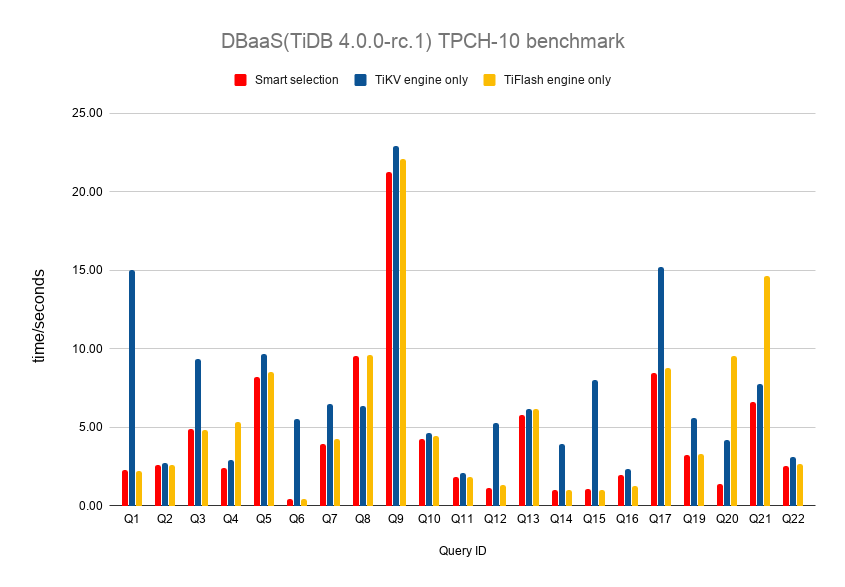
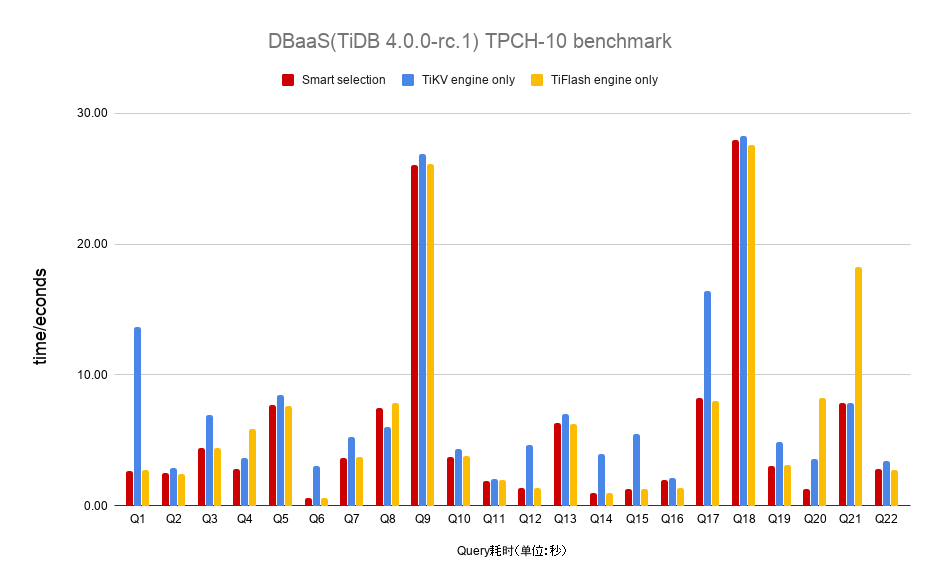
Update query cost

diff --git a/benchmark/v4.0-performance-benchmarking-with-tpch-on-dbaas.md b/benchmark/v4.0-performance-benchmarking-with-tpch-on-dbaas.md
@@ -108,28 +108,28 @@ select @@tidb_isolation_read_engines, @@tidb_allow_batch_cop, @@tidb_opt_distinc
 
 | Query ID |  智能选择  |  TiKV 隔离读  |  TiFlash 隔离读  | 
 |--------:|-----------:|------------:|--------------:|
-| 1       |      2.25s |      15.02s |         2.24s |
-| 2       |      2.57s |       2.74s |         2.59s |
-| 3       |      4.89s |       9.35s |         4.80s |
-| 4       |      2.38s |       2.91s |         5.33s |
-| 5       |      8.19s |       9.69s |         8.53s |
-| 6       |      0.44s |       5.52s |         0.45s |
-| 7       |      3.93s |       6.49s |         4.24s |
-| 8       |      9.53s |       6.38s |         9.61s |
-| 9       |     21.24s |      22.90s |        22.12s |
-| 10      |      4.27s |       4.62s |         4.47s |
-| 11      |      1.83s |       2.05s |         1.85s |
-| 12      |      1.13s |       5.30s |         1.34s |
-| 13      |      5.78s |       6.15s |         6.18s |
-| 14      |      0.97s |       3.93s |         0.97s |
-| 15      |      1.08s |       8.02s |         1.00s |
-| 16      |      1.95s |       2.34s |         1.27s |
-| 17      |      8.45s |      15.20s |         8.79s |
-| 18      |      ?.??s |       ?.??s |         ?.??s |
-| 19      |      3.24s |       5.61s |         3.29s |
-| 20      |      1.39s |       4.20s |         9.51s |
-| 21      |      6.63s |       7.74s |        14.61s |
-| 22      |      2.50s |       3.12s |         2.63s |
+| 1       |      2.63s |      13.67s |         2.69s |
+| 2       |      2.50s |       2.88s |         2.43s |
+| 3       |      4.39s |       6.96s |         4.39s |
+| 4       |      2.77s |       3.65s |         5.88s |
+| 5       |      7.68s |       8.48s |         7.60s |
+| 6       |      0.56s |       3.02s |         0.58s |
+| 7       |      3.67s |       5.28s |         3.73s |
+| 8       |      7.50s |       6.03s |         7.88s |
+| 9       |     26.05s |      26.88s |        26.13s |
+| 10      |      3.72s |       4.30s |         3.80s |
+| 11      |      1.92s |       2.05s |         1.98s |
+| 12      |      1.38s |       4.67s |         1.37s |
+| 13      |      6.31s |       6.98s |         6.24s |
+| 14      |      0.93s |       3.95s |         0.97s |
+| 15      |      1.26s |       5.51s |         1.25s |
+| 16      |      2.00s |       2.11s |         1.35s |
+| 17      |      8.22s |      16.44s |         7.99s |
+| 18      |     27.94s |      28.30s |        27.56s |
+| 19      |      3.07s |       4.87s |         3.09s |
+| 20      |      1.27s |       3.55s |         8.20s |
+| 21      |      7.82s |       7.86s |        18.23s |
+| 22      |      2.79s |       3.45s |         2.75s |
 
 ![TPC-H Query Result](/media/tpch-query-result-v4.0-dbaas.png)
 
